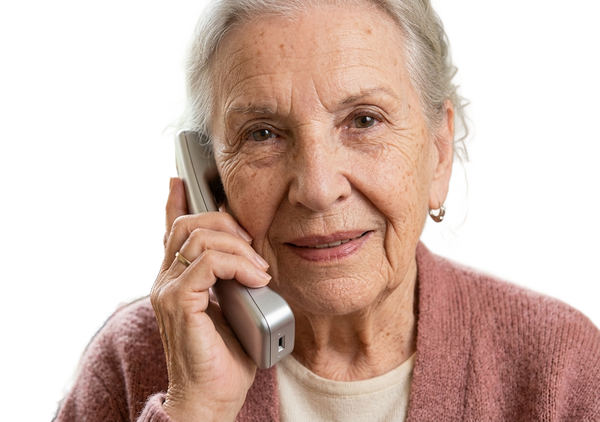
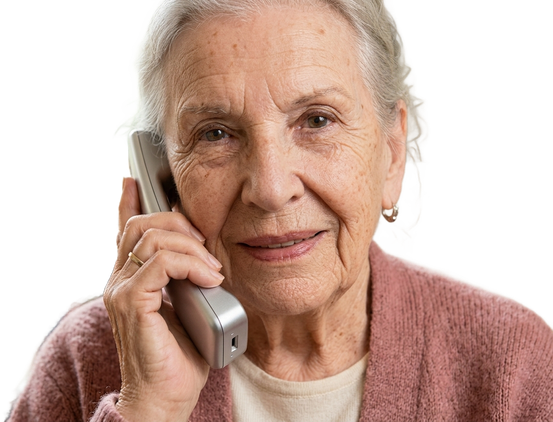
new changes

diff --git a/src/pages/EndorseUs.jsx b/src/pages/EndorseUs.jsx
@@ -46,7 +46,7 @@ export default function EndorseUs() {
       form.reset();
       setPic(null);
       setVerifyMe(false);
-      navigate("/endorse-us/thanks");
+      navigate("/help/telecom-endorse-us/thanks");
     } catch {
       setStatus("error");
     }
@@ -57,41 +57,41 @@ export default function EndorseUs() {
       <CloseButton to="/join/telecom" />
       <section className="bg-white px-4 pb-16 pt-10 text-ink sm:px-6 sm:pt-14">
         <div className="mx-auto max-w-[1040px]">
-          <div className="mt-16 grid items-stretch gap-10 lg:grid-cols-[minmax(0,1fr)_minmax(340px,0.85fr)] lg:gap-14">
-          <div className="flex h-full flex-col items-center sm:items-start">
-            <img
-              src={grannyImg}
-              alt="Woman on a phone call"
-              className="h-auto w-full max-w-[280px] rounded-2xl object-cover"
-            />
-            <p className="mt-auto max-w-[420px] text-center text-[16px] leading-relaxed text-ink-muted sm:text-left sm:text-[18px]">
-              Share why verified, numbered calls matter to you — your endorsement
-              helps us show telecom providers and regulators that people want an
-              end to caller ID spoofing and phone fraud.
-            </p>
-          </div>
-          <aside className="text-center lg:sticky lg:top-32">
-            <img
-              src={supportersImg}
-              alt="Happy PhishFlagger supporters"
-              className="mx-auto mt-8 h-auto w-full max-w-[520px] object-contain"
-            />
-            <Link
-              to="/about/supporters"
-              className="mt-6 inline-flex items-center justify-center rounded-md bg-[#4a4a4a] px-5 py-3 text-[13px] font-bold text-white transition-colors hover:bg-[#2f2f2f]"
-            >
-              Supporters
-            </Link>
-          </aside>
-          </div>
-
-          <h1 className="mt-16 text-center text-[34px] font-semibold leading-tight tracking-tight text-[#303030] sm:text-[44px]">
+          <h1 className="text-center text-[34px] font-semibold leading-tight tracking-tight text-[#303030] sm:text-[44px]">
             Endorse Us for safe phone Calls.
           </h1>
 
+          <div className="mt-10 grid items-stretch gap-10 lg:grid-cols-2 lg:gap-16">
+            <div className="flex h-full flex-col items-center gap-6 sm:items-start">
+              <img
+                src={grannyImg}
+                alt="Woman on a phone call"
+                className="h-[220px] w-full max-w-[300px] rounded-2xl object-cover object-top shadow-sm"
+              />
+              <p className="mt-auto max-w-[420px] text-center text-[16px] leading-relaxed text-ink-muted sm:text-left sm:text-[18px]">
+                Share why verified, numbered calls matter to you — your endorsement
+                helps us show telecom providers and regulators that people want an
+                end to caller ID spoofing and phone fraud.
+              </p>
+            </div>
+            <div className="flex h-full w-full flex-col items-center gap-6 text-center">
+              <img
+                src={supportersImg}
+                alt="Happy PhishFlagger supporters"
+                className="h-[220px] w-full max-w-[600px] object-contain"
+              />
+              <Link
+                to="/help/supporters"
+                className="mt-auto inline-flex items-center justify-center rounded-md bg-[#4a4a4a] px-5 py-3 text-[13px] font-bold text-white transition-colors hover:bg-[#2f2f2f]"
+              >
+                Supporters
+              </Link>
+            </div>
+          </div>
+
           <form
             onSubmit={onSubmit}
-            className="mt-8 w-full rounded-[10px] border border-[#e9e9e9] bg-white px-6 pb-12 pt-14"
+            className="mt-14 w-full rounded-[10px] border border-[#e9e9e9] bg-white px-6 pb-12 pt-14"
           >
             <div className="space-y-5">
               {/* Name */}

diff --git a/src/pages/about/EndorseUs.jsx b/src/pages/about/EndorseUs.jsx
@@ -80,43 +80,38 @@ export default function EndorseUs() {
             </p>
           </div>
 
-          <div className="mt-16 grid items-stretch gap-10 lg:grid-cols-[minmax(0,1fr)_minmax(340px,0.85fr)] lg:gap-14">
-          <div className="flex h-full flex-col">
-            <h1 className="text-center text-[34px] font-semibold leading-none tracking-tight text-[#303030] sm:text-left sm:text-[44px]">
-              Endorse Us
-            </h1>
-            <div className="flex flex-1 items-center">
-              <p className="mx-auto max-w-[420px] text-center text-[16px] leading-relaxed text-ink-muted sm:mx-0 sm:text-left sm:text-[18px]">
+          <div className="mt-10 grid items-stretch gap-10 lg:grid-cols-2 lg:gap-16">
+            <div className="flex h-full flex-col items-center gap-6 sm:items-start">
+              <h1 className="text-center text-[34px] font-semibold leading-none tracking-tight text-[#303030] sm:text-left sm:text-[44px]">
+                Endorse Us
+              </h1>
+              <p className="mt-auto max-w-[420px] text-center text-[16px] leading-relaxed text-ink-muted sm:text-left sm:text-[18px]">
                 Join our supporters. These visionaries understand how human
                 compatible PhishFlagger can finally solve Phishing.
               </p>
             </div>
+            <div className="flex h-full w-full flex-col items-center gap-6 text-center">
+              <img
+                src={supportersImg}
+                alt="Happy PhishFlagger supporters"
+                className="h-[220px] w-full max-w-[600px] object-contain"
+              />
+              <Link
+                to={
+                  location.pathname.startsWith("/help")
+                    ? "/help/supporters"
+                    : "/about/supporters"
+                }
+                className="mt-auto inline-flex items-center justify-center rounded-md bg-[#4a4a4a] px-5 py-3 text-[13px] font-bold text-white transition-colors hover:bg-[#2f2f2f]"
+              >
+                Supporters
+              </Link>
+            </div>
           </div>
-          <aside className="text-center lg:sticky lg:top-32">
-            <h2 className="text-[30px] font-semibold leading-tight tracking-tight text-[#303030] sm:text-[42px]">
-              See our Supporters
-            </h2>
-            <img
-              src={supportersImg}
-              alt="Happy PhishFlagger supporters"
-              className="mx-auto mt-8 h-auto w-full max-w-[520px] object-contain"
-            />
-            <Link
-              to="/about/supporters"
-              className="mt-6 inline-flex items-center justify-center rounded-md bg-[#4a4a4a] px-5 py-3 text-[13px] font-bold text-white transition-colors hover:bg-[#2f2f2f]"
-            >
-              Supporters
-            </Link>
-          </aside>
-          </div>
-
-          <h2 className="mt-16 text-center text-[26px] font-semibold leading-tight tracking-tight text-[#333333] sm:text-[36px]">
-            Endorsement Information
-          </h2>
 
           <form
             onSubmit={onSubmit}
-            className="mt-8 w-full rounded-[10px] border border-[#e9e9e9] bg-white px-6 pb-12 pt-14"
+            className="mt-14 w-full rounded-[10px] border border-[#e9e9e9] bg-white px-6 pb-12 pt-14"
           >
             <div className="space-y-4">
               <Field label="Name">

diff --git a/src/components/layout/Footer.jsx b/src/components/layout/Footer.jsx
@@ -133,11 +133,11 @@ export default function Footer({ logoSrc = logoImg }) {
                 <ul className="space-y-2.5 list-none p-0">
                   {[
                     { label: "PhishFlagger.org", to: "/phishflagger-org" },
-                    { label: "Kickstarter", to: "/about/kickstarter" },
-                    { label: "Hall of Fame", to: "/about/hall-of-fame" },
+                    { label: "Kickstarter", to: "/help/kickstarter" },
+                    { label: "Hall of Fame", to: "/help/hall-of-fame" },
                     { label: "Endorse Us", to: "/help/endorse-us" },
-                    { label: "Supporters", to: "/about/supporters" },
-                    { label: "Telecom - Endorse Us", to: "/endorse-us" },
+                    { label: "Supporters", to: "/help/supporters" },
+                    { label: "Telecom - Endorse Us", to: "/help/telecom-endorse-us" },
                     { label: "Telecom - Sign Petition", to: "/petition" },
                     { label: "FAQ", to: "/about/faq" },
                   ].map((link) => (

diff --git a/src/App.jsx b/src/App.jsx
@@ -60,8 +60,6 @@ export default function App() {
           }
         />
         <Route path="kick" element={<Kick />} />
-        <Route path="endorse-us" element={<EndorseUs />} />
-        <Route path="endorse-us/thanks" element={<EndorseThanks />} />
         <Route path="contact" element={<Contact />} />
         <Route
           path="contact/thanks"
@@ -127,6 +125,14 @@ export default function App() {
               />
             }
           />
+          <Route path="telecom-endorse-us" element={<EndorseUs />} />
+          <Route
+            path="telecom-endorse-us/thanks"
+            element={<EndorseThanks />}
+          />
+          <Route path="kickstarter" element={<Kickstarter />} />
+          <Route path="hall-of-fame" element={<HallOfFame />} />
+          <Route path="supporters" element={<Supporters />} />
         </Route>
 
         <Route path="about">

diff --git a/src/pages/join/Telecom.jsx b/src/pages/join/Telecom.jsx
@@ -318,14 +318,12 @@ export default function Telecom() {
               label="Subscribe"
               src={subscribeIcon}
               alt="Subscribe"
-              imageClassName="[clip-path:polygon(0_0,40%_0,40%_52%,100%_52%,100%_100%,0_100%)]"
             />
             <ActionCard
-              to="/endorse-us"
+              to="/help/telecom-endorse-us"
               label="Endorse Us"
               src={endorseIcon}
               alt="Endorse Us"
-              imageClassName="[filter:hue-rotate(250deg)_saturate(1.3)]"
             />
             <ActionCard
               to="/petition"

diff --git a/src/data/nav.js b/src/data/nav.js
@@ -16,9 +16,9 @@ export const nav = [
     label: "Help",
     children: [
       { label: "PhishFlagger.org", href: "/phishflagger-org" },
-      { label: "Kickstarter", href: "/about/kickstarter" },
+      { label: "Kickstarter", href: "/help/kickstarter" },
       { label: "Endorse Us", href: "/help/endorse-us" },
-      { label: "Telecom - Endorse Us", href: "/endorse-us" },
+      { label: "Telecom - Endorse Us", href: "/help/telecom-endorse-us" },
       { label: "Telecom - Sign Petition", href: "/petition" },
     ],
   },

diff --git a/src/pages/about/Supporters.jsx b/src/pages/about/Supporters.jsx
@@ -42,7 +42,7 @@ const PRESS_AWARDS = [
 export default function Supporters() {
   return (
     <>
-      <CloseButton to="/endorse-us" />
+      <CloseButton to="/help/telecom-endorse-us" />
 
       {/* Header */}
       <section className="w-full bg-white px-4 pt-14 pb-12 sm:px-6 sm:pt-20 sm:pb-16">
